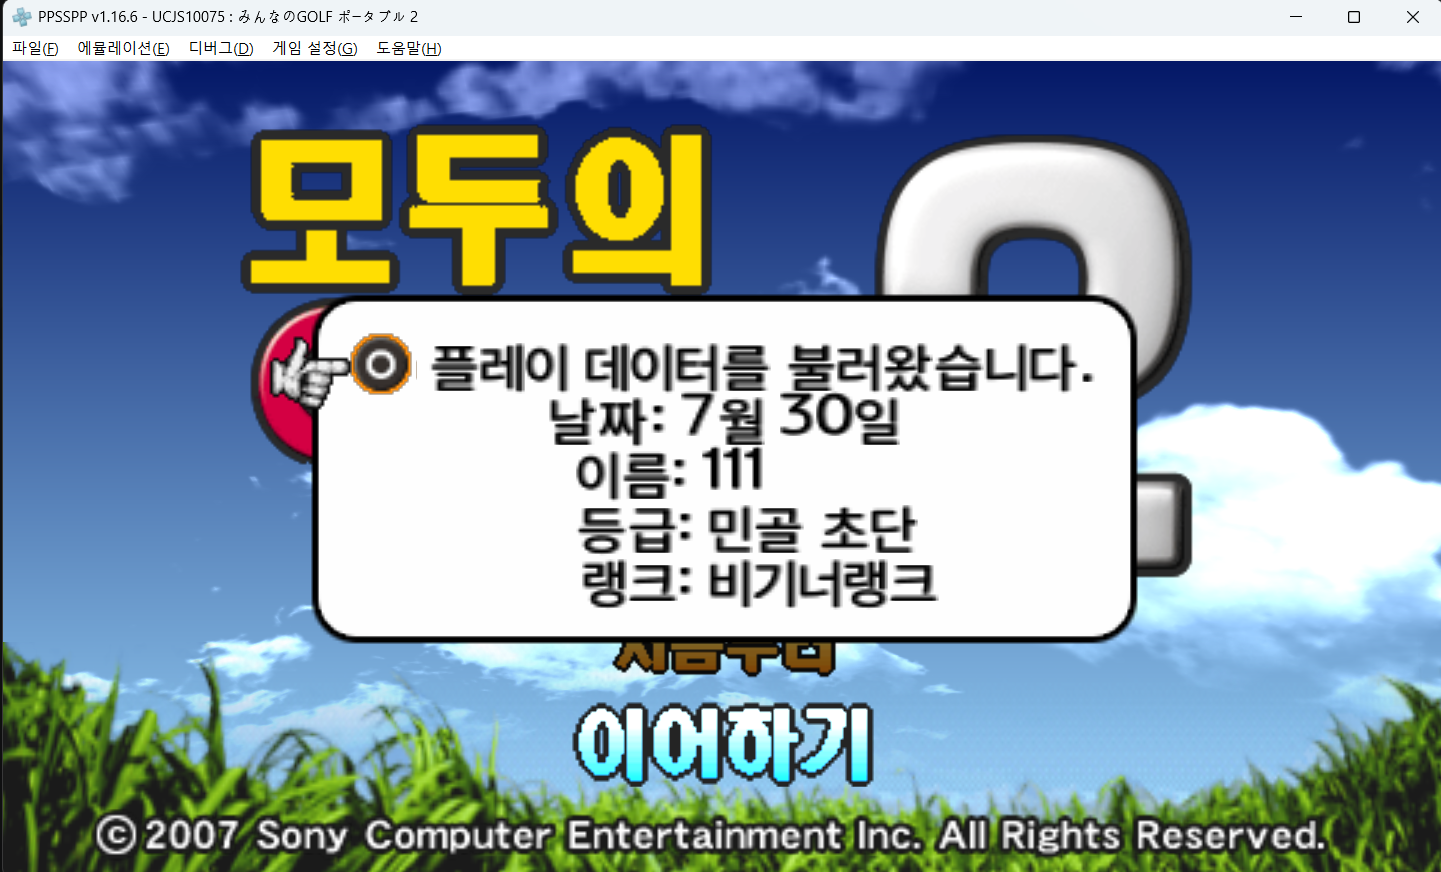
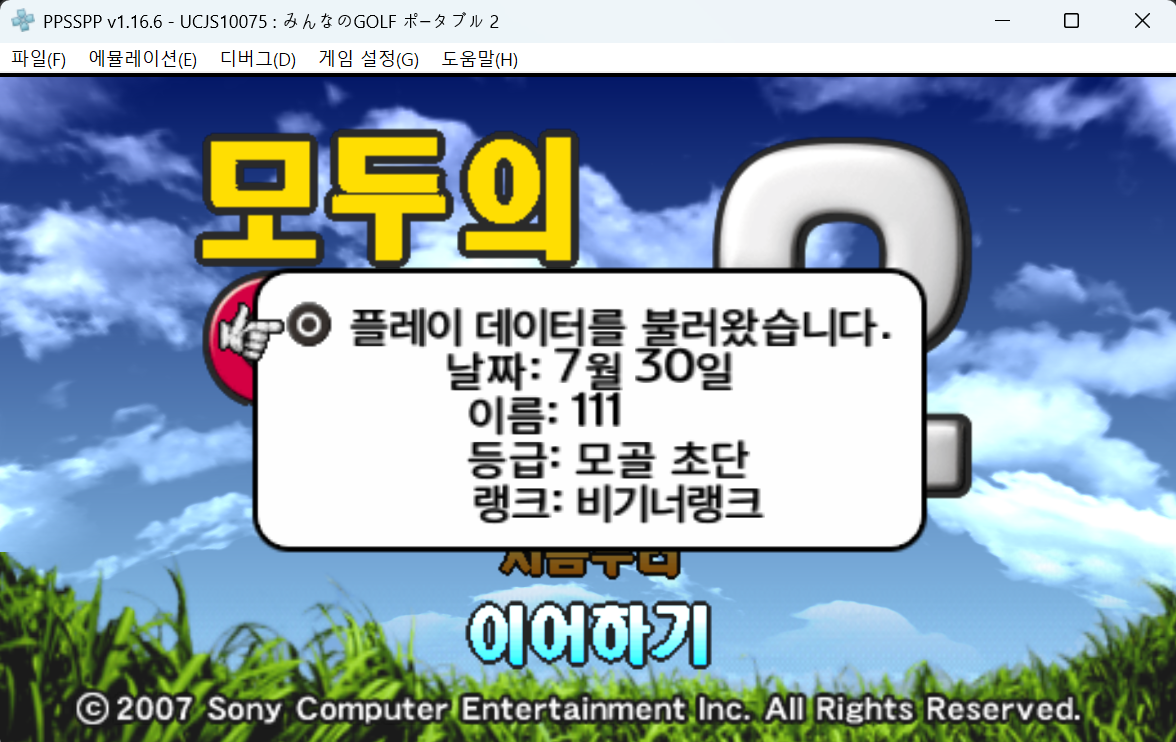
모두의 골프 2 v0.4: 인게임·랭킹·로드 메시지 한글화
화면의 일본어가 문자열 테이블이 아니라 낱말 텍스처 조합임을 확인하고
대회 제목·랭킹표·스코어카드·코스 진입 화면을 한글화했다.
최종 확인 화면이 코스마다 다른 팩을 읽어 13벌 전부 반영했고,
「예/아니오」는 26개 팩에 복제된 버튼 텍스처에서 찾았다.
VS 챌린지 전용 좌표표를 새로 만들고 로드 메시지 80장을 처리했다.

스크린샷 4장 추가, 5장 갱신.

diff --git a/psp/Minna-no-Golf-Portable2/README.md b/psp/Minna-no-Golf-Portable2/README.md
@@ -2,8 +2,8 @@
 
 소니 2007년작 PSP 골프 게임 **모두의 골프 포터블 2 (Everybody's Golf Portable 2)** 의 한글화 작업입니다.
 
-> 🚧 **v0.1 개발 중** — 인게임 한글 출력이 확인됐습니다. 타이틀·메인 메뉴·챌린지·
-> 캐릭터 선택 화면이 한글화됐고, 번역 분량을 채우며 남은 화면을 처리하는 단계입니다.
+> 🚧 **v0.4 개발 중** — 텍스트 2,978건과 주요 화면 그래픽이 한글화됐습니다.
+> 인게임·랭킹·스코어카드·로드 메시지까지 처리했고, 남은 일본어를 찾아 마무리하는 단계입니다.
 
 ## 다운로드
 
@@ -30,9 +30,12 @@
 | **번역** | 🔶 2,978건 (주 UI 595, 의상·장비 347, 이벤트 대사 380, 코멘트 286 …) |
 | **타이틀 화면 그래픽** | ✅ 로고·버튼 한글화 |
 | **메인 메뉴 그래픽** | ✅ 버튼 19개 + 상단 띠 5종 한글화 |
-| **챌린지 화면 그래픽** | ✅ 150건 (제목·캐릭터·랭크·코스·규칙·카드) |
-| **캐릭터 선택 그래픽** | ✅ 제목·등급 탭·갈아입기 등 11건 |
-| **최종 확인 그래픽** | 🔶 제목만 (캐디·시합형식 남음) |
+| **챌린지 화면 그래픽** | ✅ 챌린지·VS 챌린지 두 화면 (제목·캐릭터·랭크·코스·규칙·카드) |
+| **캐릭터 선택 그래픽** | ✅ 제목·등급 탭·이름 23개 등 |
+| **최종 확인 그래픽** | ✅ 캐디·시합 형식·랭크·티 등 (코스별 13벌 전부) |
+| **인게임 그래픽** | ✅ 라이·샷 평가·포인트 항목·게이지 라벨 등 |
+| **랭킹·스코어카드 그래픽** | ✅ 대회명·순위표·조작 안내 |
+| **로드 메시지** | ✅ 80장 (코스 소개·게임 안내·축하·캐릭터 소개) |
 
 ## 스크린샷
 
@@ -47,6 +50,14 @@
 | 대회 참가 | 데이터 불러오기 |
 |---|---|
 | ![대회 참가](screenshots/course_selection2.png) | ![데이터 불러오기](screenshots/data_load.png) |
+
+| 캐릭터 선택 | 최종 확인 |
+|---|---|
+| ![캐릭터 선택](screenshots/character_selection.png) | ![최종 확인](screenshots/last_confirm.png) |
+
+| 코스 진입 | 인게임 |
+|---|---|
+| ![코스 진입](screenshots/course_view.png) | ![인게임](screenshots/in_game.png) |
 
 ## 적용 방법
 
@@ -87,6 +98,22 @@ MD5:  7c94ccb94b3bb336095af3de0fd912cb
 | `build.py` | 한글 패치 빌드 (폰트 주입 → 텍스트 교체 → ISO 반영) |
 
 ## 변경 이력
+
+### v0.4 (개발 중) 2026-08-03
+- 화면의 일본어는 문자열 테이블이 아니라 **낱말 텍스처를 잘라 붙인 것**임을 확인
+  (「第1回 ビギナー トーナメント」 = 네 조각 조합)
+- 대회 제목·랭킹표·스코어카드·코스 진입 화면 한글화
+- 인게임 라벨 한글화 — 라이·샷 평가·포인트 항목 25종·게이지 표기
+- 최종 확인 화면이 **코스마다 다른 팩**을 읽는 것을 확인해 13벌 전부 반영
+- 「예/아니오」가 PSP 버튼 모음 텍스처에 있어 **26개 팩에 복제**된 것을 찾아 반영
+- VS 챌린지 화면(`mClng2`) 전용 좌표표 신설 — 지금까지 통째로 일본어였음
+- 랭크 승격 축하판 9종, 로드 메시지 80장 한글화
+
+### v0.3 / v0.2 (개발 중) 2026-08-01 ~ 08-02
+- 챌린지·캐릭터 선택·최종 확인 화면 그래픽 한글화
+- 지우기 방식 개선 — 상자만 네모로 지우면 옛 글자의 흐린 가장자리가 남아
+  새 글자 뒤로 비친다. 상자에 닿은 잉크를 연결된 만큼 따라가며 지우도록 변경
+- 게임이 파일을 **`mgp.ufl`** 로 찾는다는 것을 확인 (디렉터리만 고치면 원본이 읽힌다)
 
 ### v0.1 (개발 중) 2026-07-30 ~ 07-31
 - 프로젝트 개설, ISO 도구·MIPS 디스어셈블러 작성
